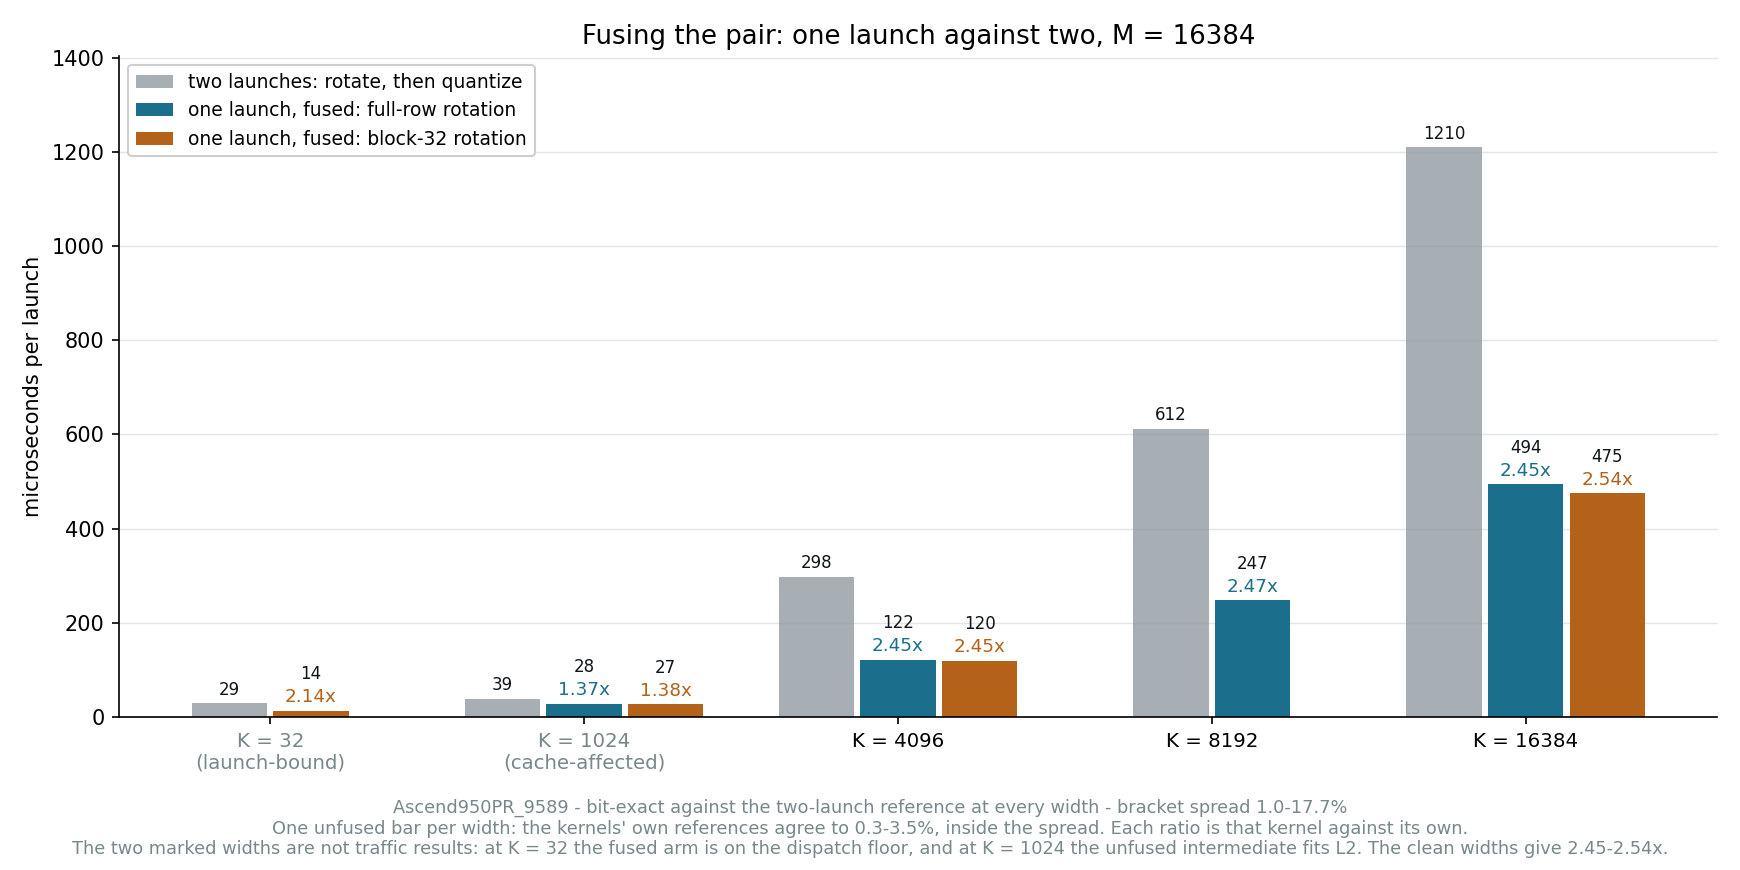
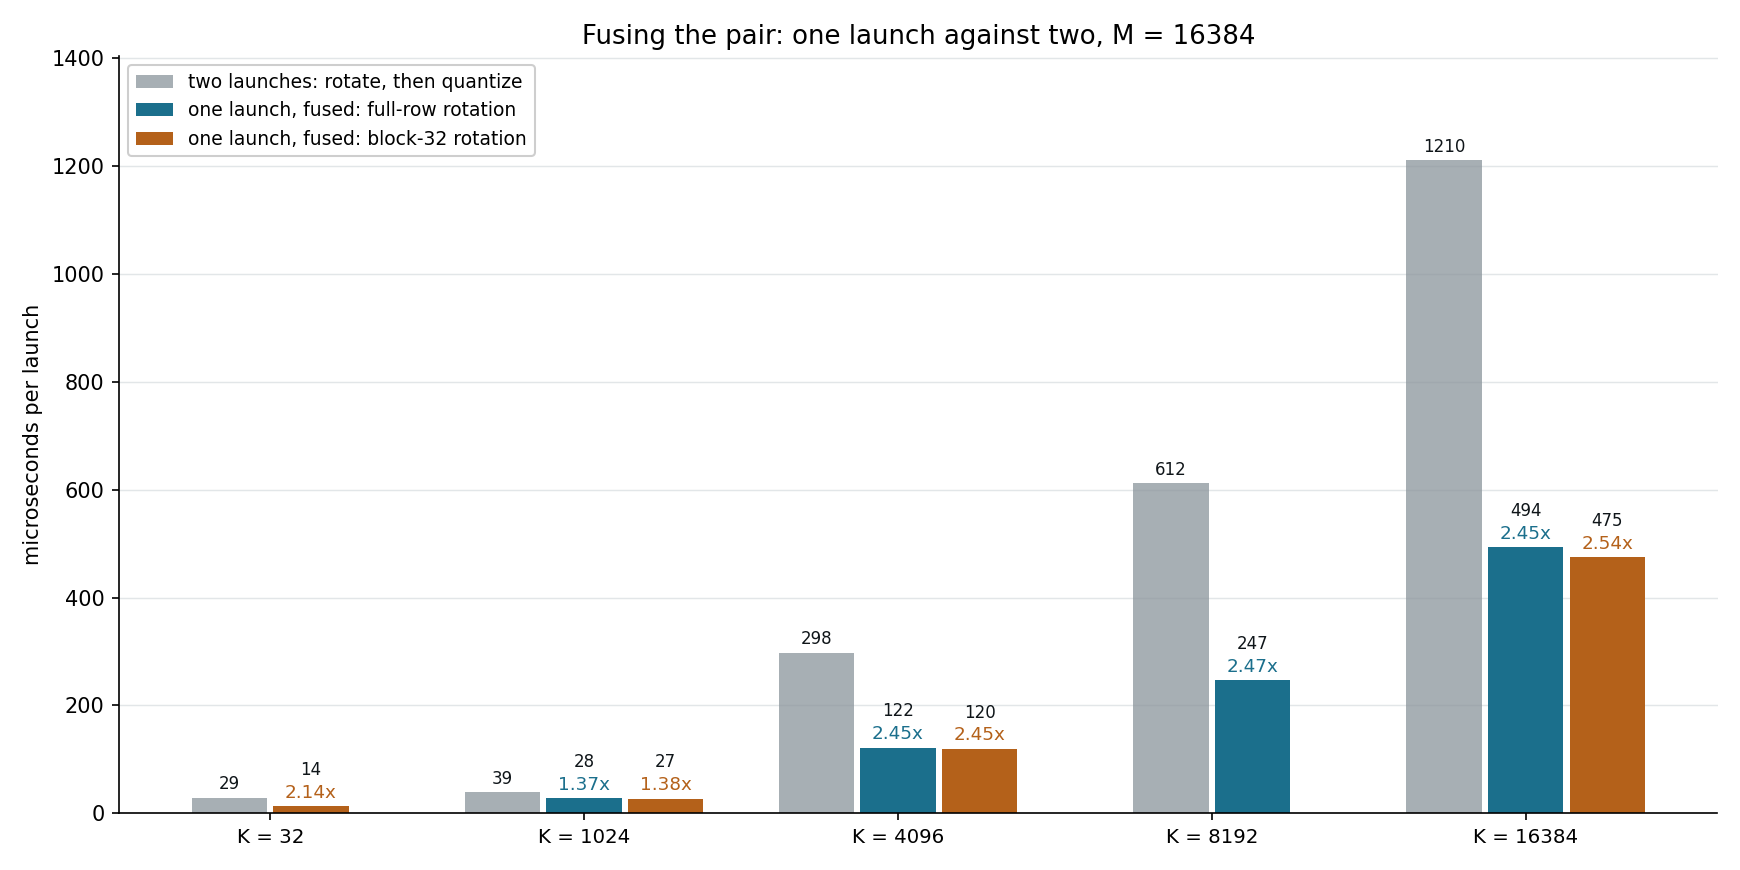
fused_hadamard_quant_a5: drop the axis annotations and the caption
Plain "K = ..." ticks and no footnote. The launch-bound and
cache-affected notes, the reference-agreement note and the provenance
line all stay in the script's docstring and in both READMEs, which is
where a reader who wants them is already looking.

Claude-Session: https://claude.ai/code/session_01HZVm8471pTYSqnDhjM7k1g

diff --git a/fused_hadamard_quant_a5/plot_fusion_both_a5.py b/fused_hadamard_quant_a5/plot_fusion_both_a5.py
@@ -41,11 +41,6 @@ COPY = "#8a949b"
 INK = "#0f1519"
 GRID = "#d7dcdf"
 
-# widths whose ratio is not a traffic result; the axis says so rather than
-# leaving a reader to take 2.14x at face value
-CAVEAT = {32: "launch-bound", 1024: "cache-affected"}
-
-
 def read(p):
     with open(p, newline="", encoding="utf-8") as fh:
         return list(csv.DictReader(fh))
@@ -133,13 +128,7 @@ def main():
             )
 
     ax.set_xticks(xs)
-    ax.set_xticklabels(
-        [f"K = {k}" + (f"\n({CAVEAT[k]})" if k in CAVEAT else "") for k in widths],
-        fontsize=9.5,
-    )
-    for lab, k in zip(ax.get_xticklabels(), widths):
-        if k in CAVEAT:
-            lab.set_color("#78878b")
+    ax.set_xticklabels([f"K = {k}" for k in widths], fontsize=9.5)
     ceiling = max(float(r["two_us"]) for m in (full, b32) for r in m.values())
     ax.set_ylabel("microseconds per launch")
     ax.set_ylim(0, ceiling * 1.16)
@@ -163,21 +152,7 @@ def main():
     ax.set_axisbelow(True)
     ax.spines[["top", "right"]].set_visible(False)
 
-    fig.text(
-        0.5,
-        0.018,
-        "Ascend950PR_9589 - bit-exact against the two-launch reference at every "
-        "width - bracket spread 1.0-17.7%\n"
-        "One unfused bar per width: the kernels' own references agree to 0.3-3.5%, "
-        "inside the spread. Each ratio is that kernel against its own.\n"
-        "The two marked widths are not traffic results: at K = 32 the fused arm is "
-        "on the dispatch floor, and at K = 1024 the unfused intermediate fits L2. "
-        "The clean widths give 2.45-2.54x.",
-        ha="center",
-        fontsize=8.5,
-        color="#78878b",
-    )
-    fig.tight_layout(rect=(0, 0.085, 1, 1))
+    fig.tight_layout()
     fig.savefig(args.out, dpi=150)
     print(f"wrote {args.out}")
     return 0
